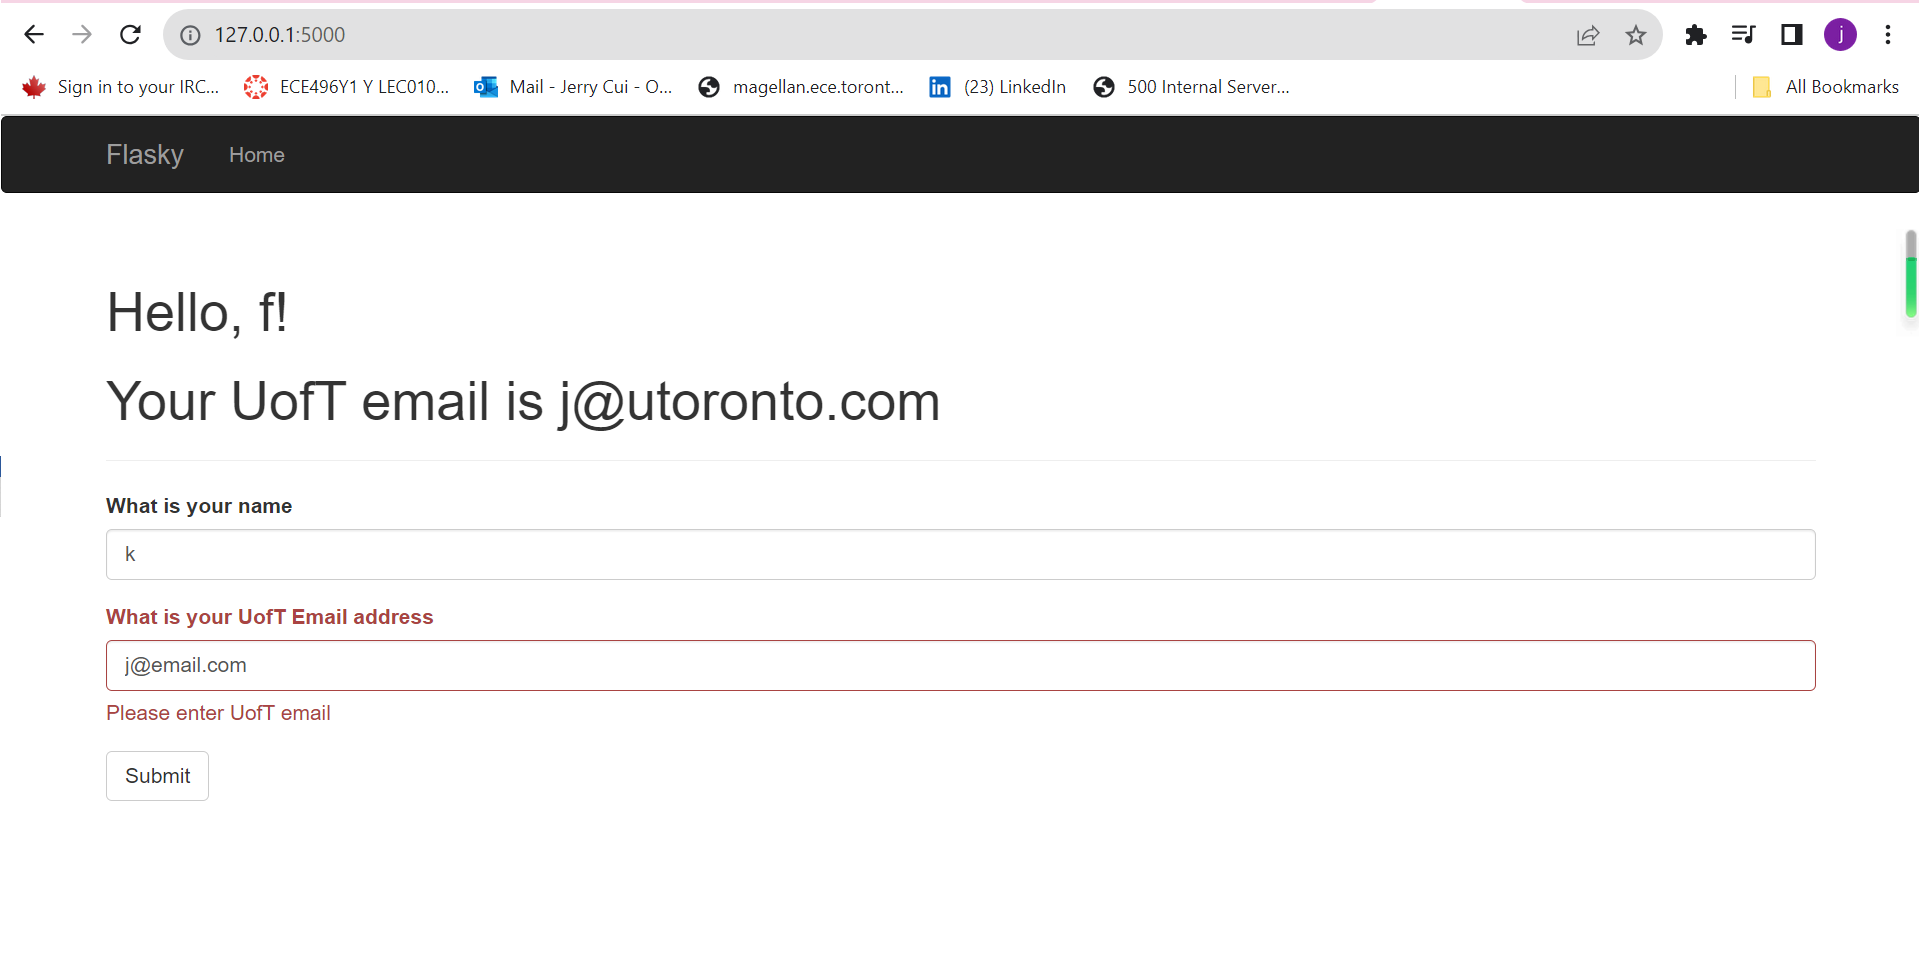
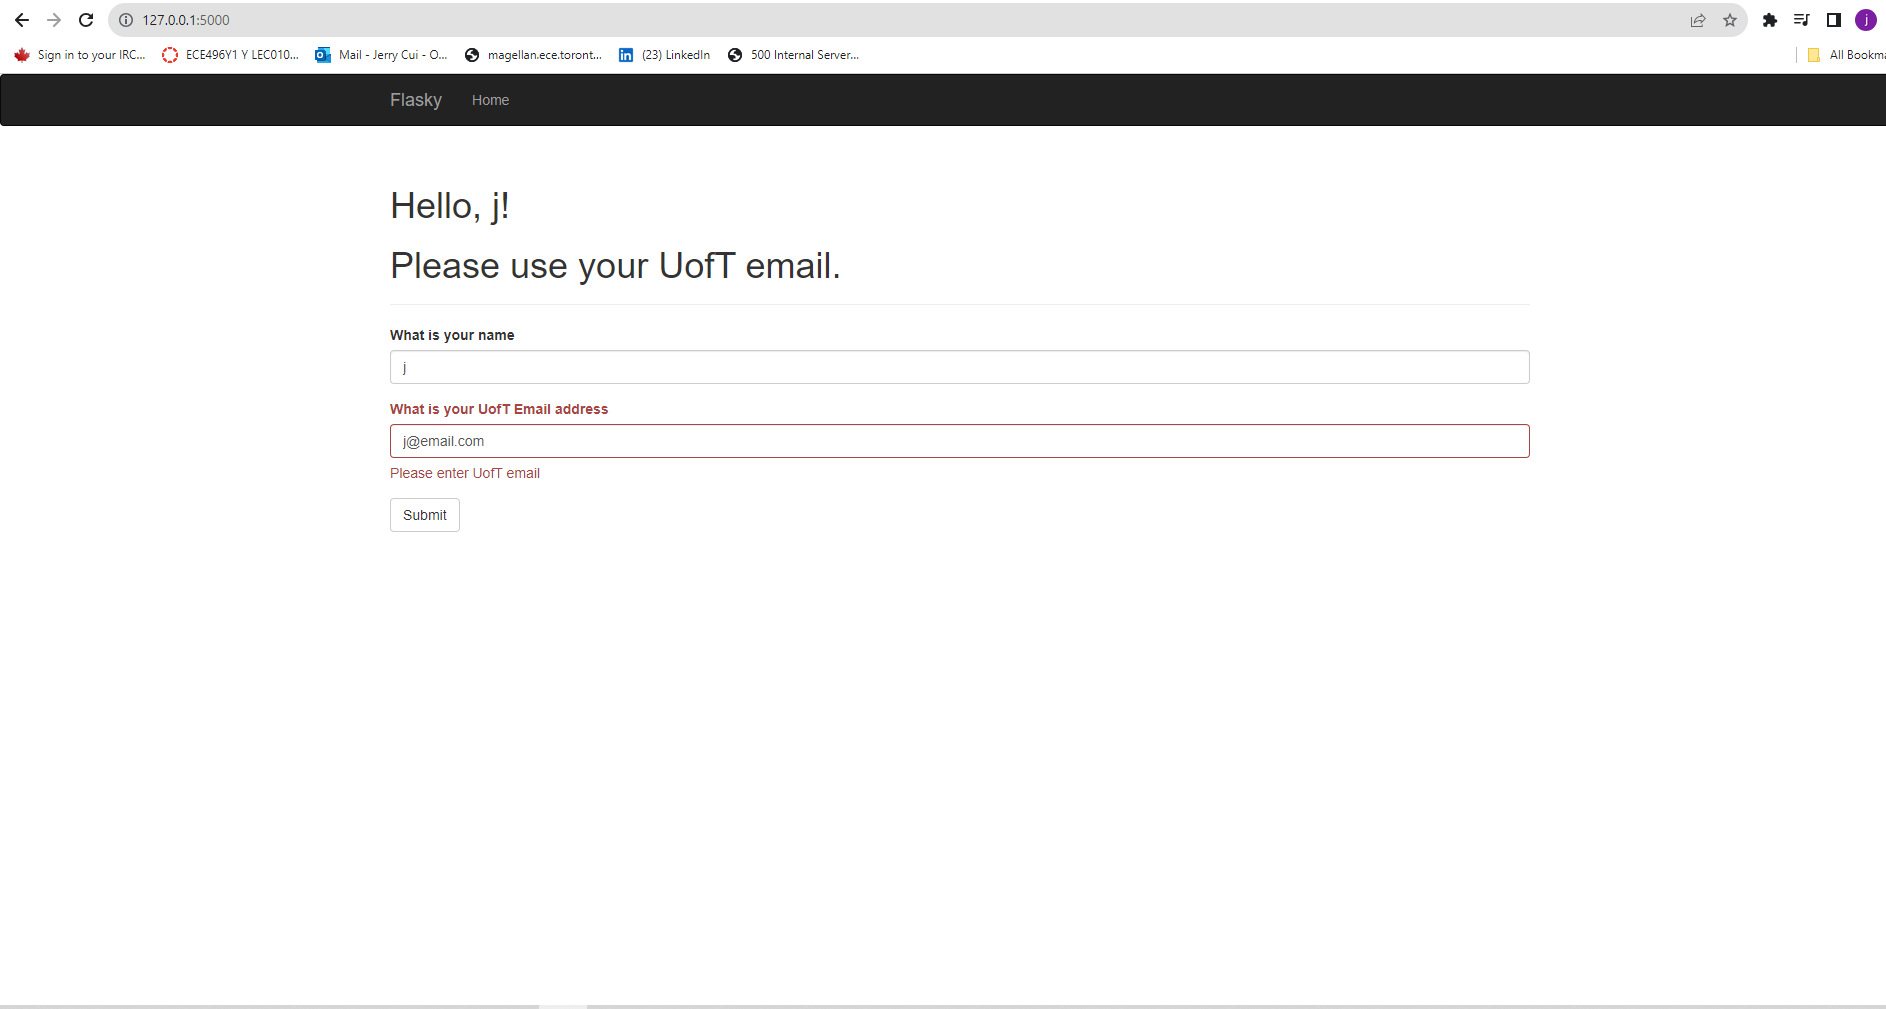
Change title when invalid email is entered

diff --git a/templates/index.html b/templates/index.html
@@ -6,7 +6,7 @@
 {% block page_content %}
 <div class="page-header">
     <h1>Hello, {% if formInfo and formInfo['name'] %}{{formInfo['name']}}{% else %}Stranger{% endif %}!</h1>
-    <h1>{% if formInfo and formInfo['email'] %}Your UofT email is {{formInfo['email']}}{% endif %}</h1>
+    <h1>{% if formInfo and formInfo['email'] %}{% if uOfTInvalide %}Please use your UofT email.{% else %} Your UofT email is {{formInfo['email']}}{% endif %}{% endif %}</h1>
 </div>
 {{ wtf.quick_form(form) }}
 {% endblock %}

diff --git a/hello.py b/hello.py
@@ -8,6 +8,7 @@ from wtforms.validators import DataRequired, Email, ValidationError
 
 def custom_validator(form, field):
     if 'utoronto' not in field.data:
+        session['uOfTInvalide'] = True
         raise ValidationError('Please enter UofT email')
 
 
@@ -26,6 +27,7 @@ bootstrap = Bootstrap(app)
 def index():
     name = None
     form = NameForm()
+    session['uOfTInvalide'] = False
     if form.validate_on_submit():
         old_info = session.get('info')
         if old_info and old_info['name'] is not None and old_info['name'] != form.name.data:
@@ -37,7 +39,7 @@ def index():
             'email': form.email.data,
         }
         return redirect(url_for('index'))
-    return render_template('index.html', form=form, formInfo=session.get('info'))
+    return render_template('index.html', form=form, formInfo=session.get('info'), uOfTInvalide=session.get('uOfTInvalide'))
 
 
 @app.route('/user/<name>')
